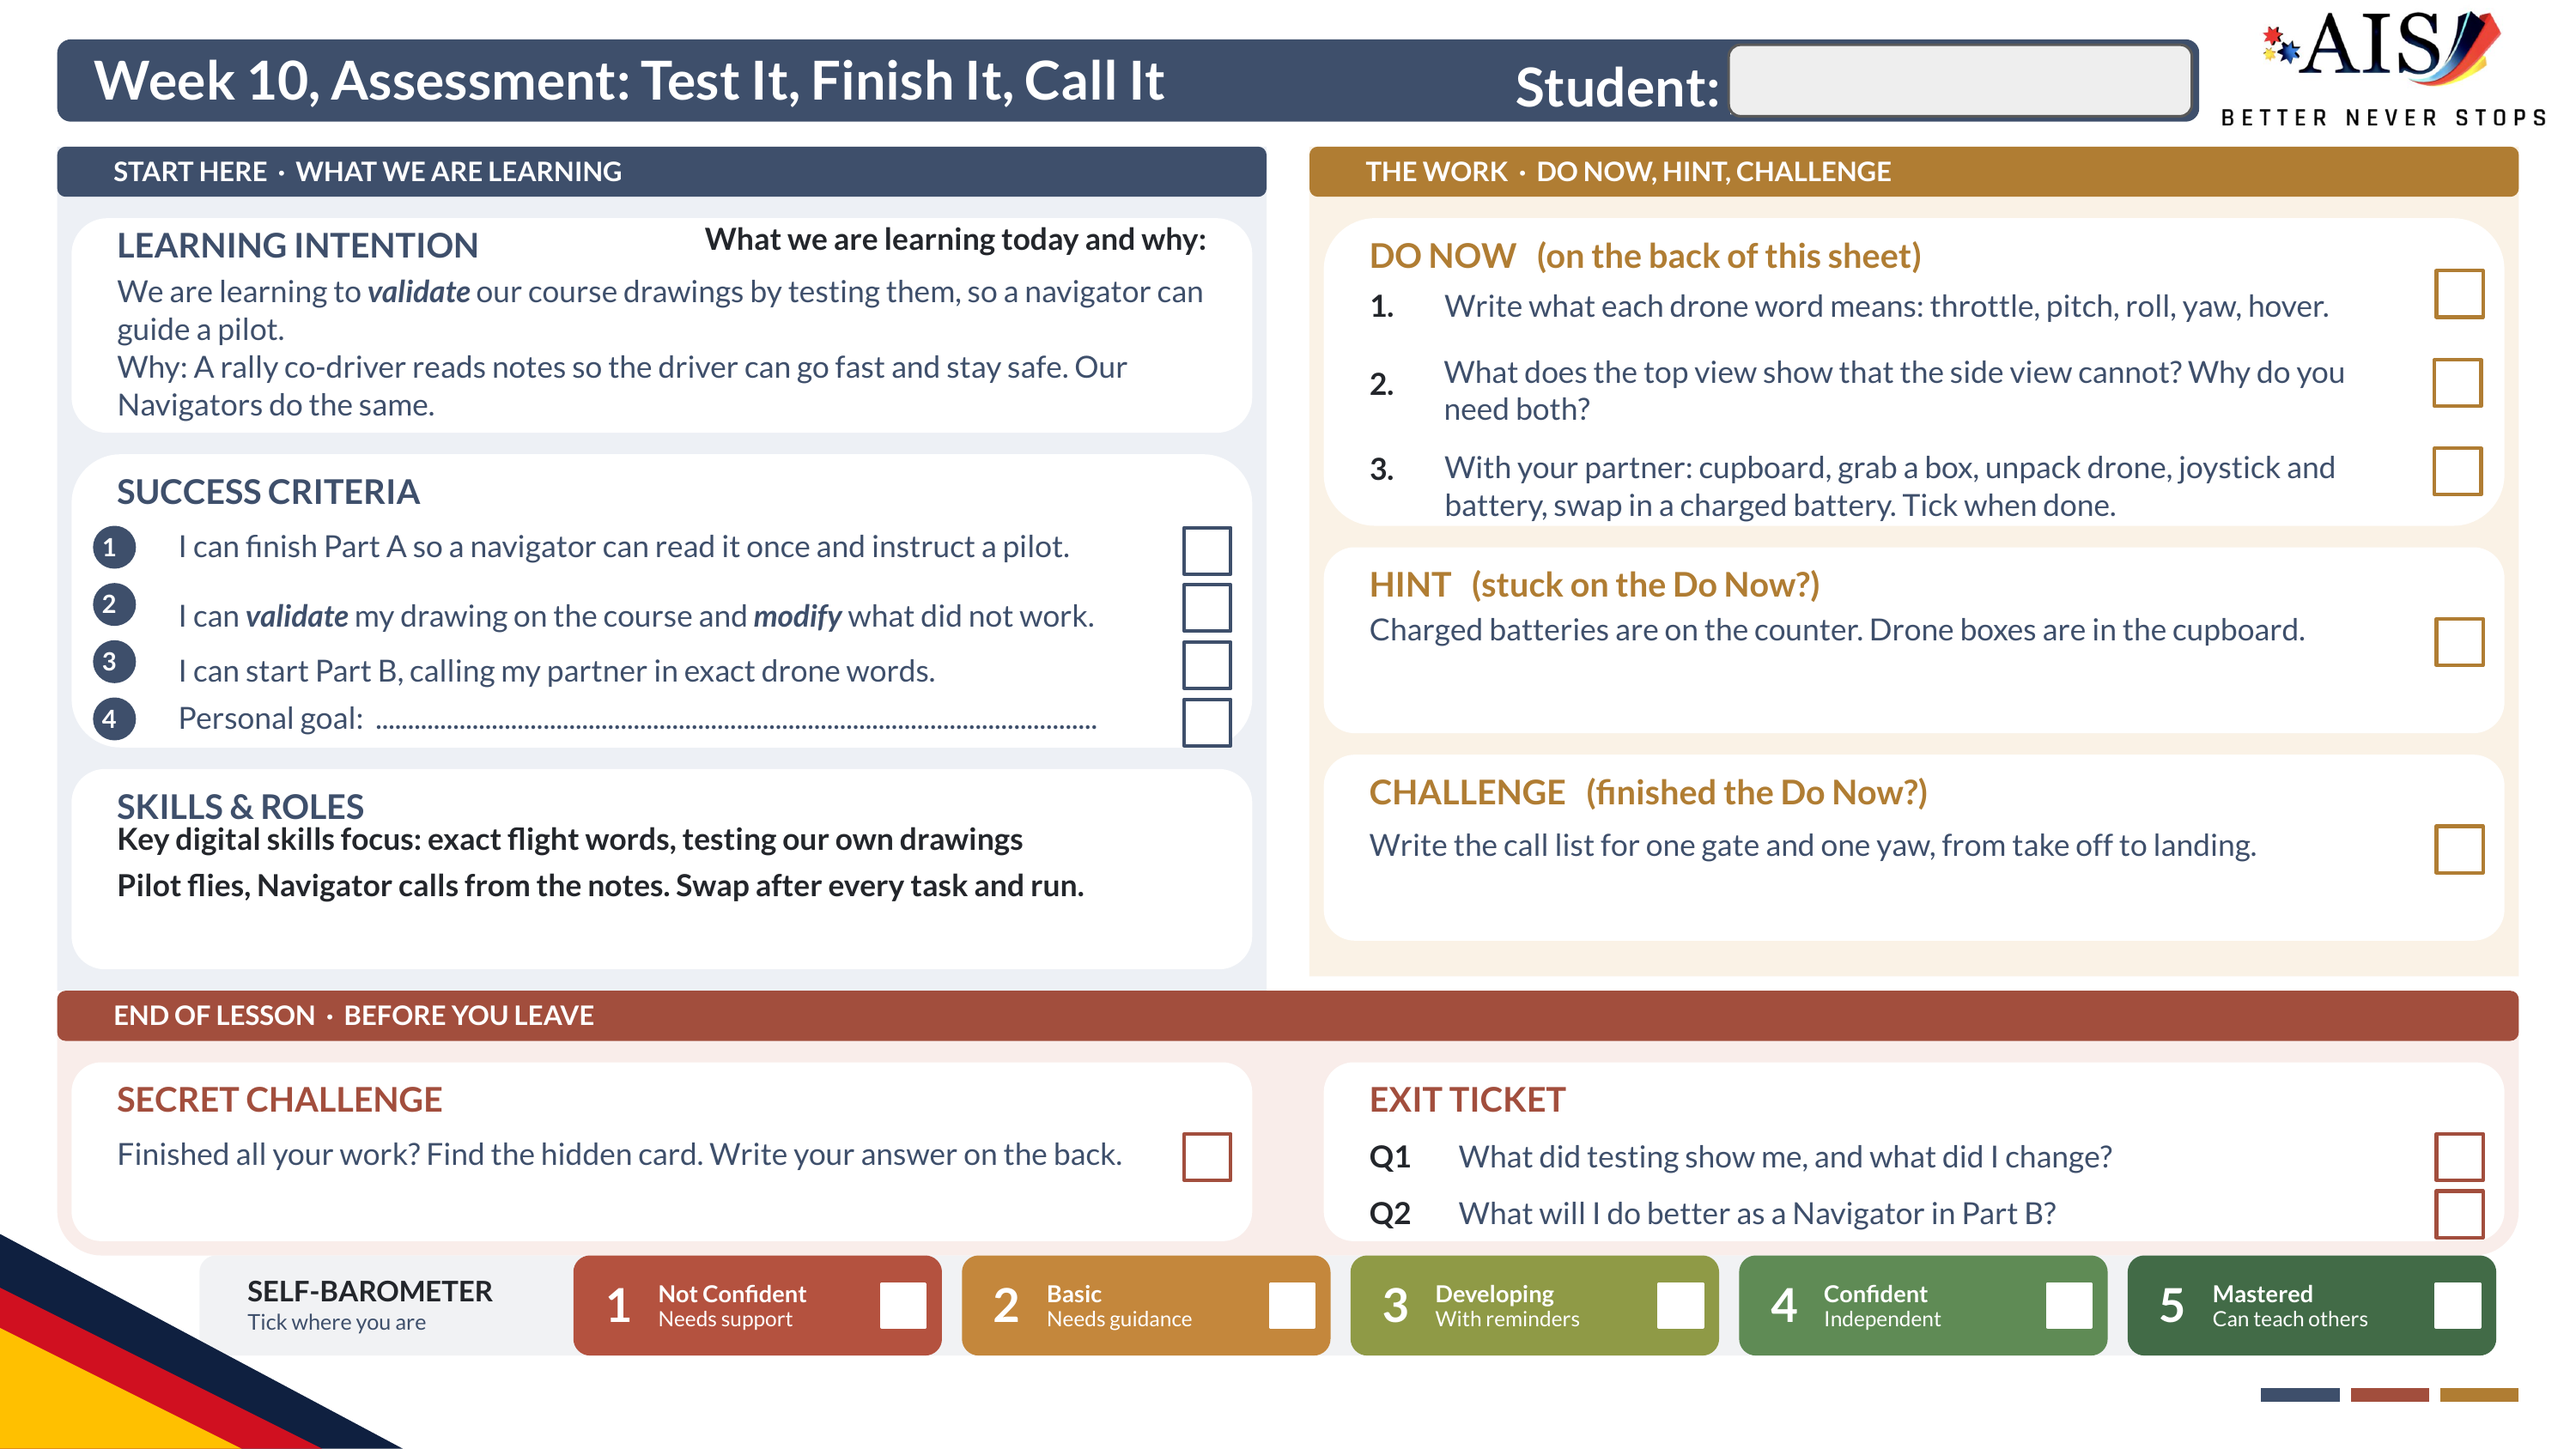
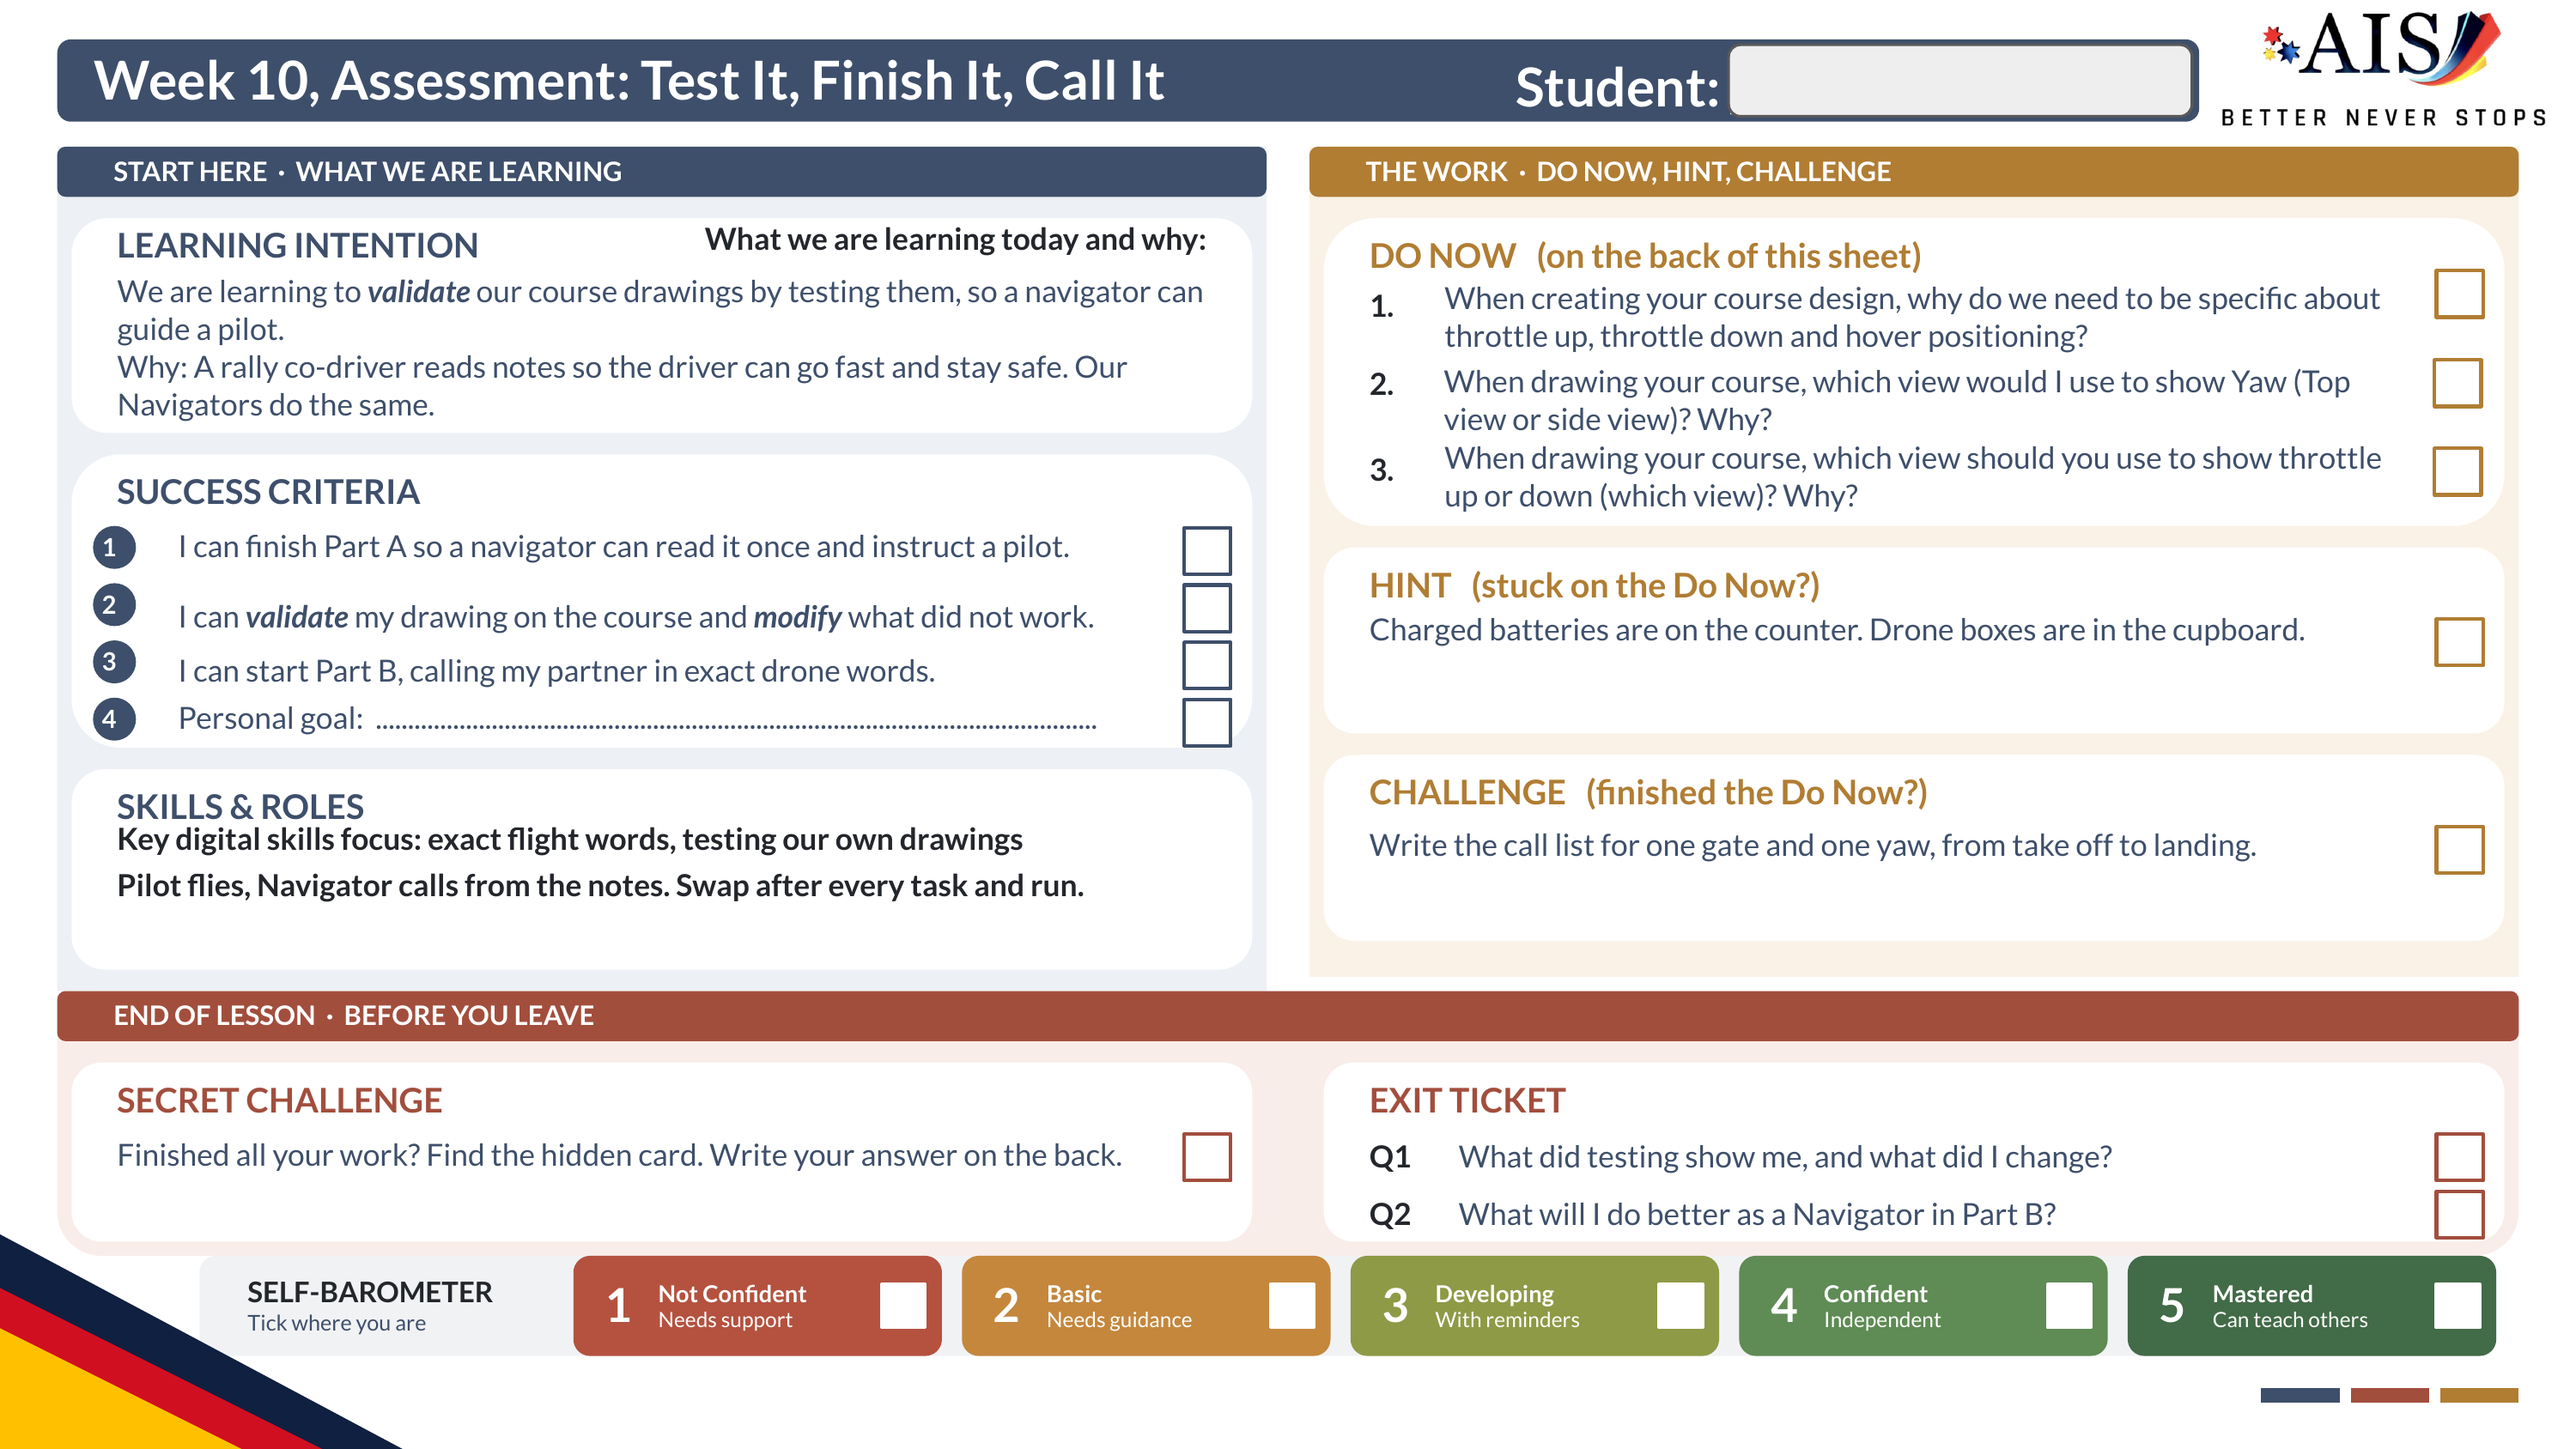
Do Now matches Igor's edited sheet; box set-up moved to calibrate (v20261104-104927)

diff --git a/g10-week10-lesson2.html b/g10-week10-lesson2.html
@@ -1548,7 +1548,7 @@ ul.plain li::before { color:var(--p-i-ink); }
   </div>
 </section>
 
-<section data-element="donow" class="slide g-well" data-timer="360" data-timer-group="donow" data-notes="&lt;strong&gt;Do Now, 6 minutes. Start the clock top left.&lt;/strong&gt; Only the Student Sheet is up. Students start straight away, answers on the back of the sheet, no devices. The ring walks on NEXT inside the same 6 minutes. &lt;strong&gt;Do Now 1:&lt;/strong&gt; “Write what each drone word means: throttle, pitch, roll, yaw, hover.” &lt;strong&gt;Do Now 2:&lt;/strong&gt; “What does the top view show that the side view cannot? Why do you need both?” &lt;strong&gt;Do Now 3:&lt;/strong&gt; “With your partner: cupboard, grab a box, unpack drone, joystick and battery, swap in a charged battery. Tick when done.” Say: Part 3 is with your partner, so your drone is ready for testing and nobody waits. The charged battery goes in now and the drone stays off; at step 2 of the calibrate, students just check it is in. Drone stays off, on the desk, until you say go. Then the ring moves to the Hint and the Challenge. &lt;strong&gt;Support:&lt;/strong&gt; the Hint, “Charged batteries are on the counter. Drone boxes are in the cupboard.” &lt;strong&gt;Stretch:&lt;/strong&gt; the Challenge, “Write the call list for one gate and one yaw, from take off to landing.” A good answer: take off procedure, throttle up to a hover, pitch forward through the gate, yaw right, pitch forward, landing procedure. Gadsby strand: retrieval and revision.">
+<section data-element="donow" class="slide g-well" data-timer="360" data-timer-group="donow" data-notes="&lt;strong&gt;Do Now, 6 minutes. Start the clock top left.&lt;/strong&gt; Only the Student Sheet is up. Students start straight away, answers on the back of the sheet, no devices. The ring walks on NEXT inside the same 6 minutes. &lt;strong&gt;Do Now 1:&lt;/strong&gt; “When creating your course design, why do we need to be specific about throttle up, throttle down and hover positioning?” &lt;strong&gt;Do Now 2:&lt;/strong&gt; “When drawing your course, which view would I use to show Yaw (Top view or side view)? Why?” &lt;strong&gt;Do Now 3:&lt;/strong&gt; “When drawing your course, which view should you use to show throttle up or down (which view)? Why?” All three are written, alone. The drone boxes come out at the calibrate slide, not now. Then the ring moves to the Hint and the Challenge. &lt;strong&gt;Support:&lt;/strong&gt; the Hint, “Charged batteries are on the counter. Drone boxes are in the cupboard.” &lt;strong&gt;Stretch:&lt;/strong&gt; the Challenge, “Write the call list for one gate and one yaw, from take off to landing.” A good answer: take off procedure, throttle up to a hover, pitch forward through the gate, yaw right, pitch forward, landing procedure. Gadsby strand: retrieval and revision.">
   <div class="slide-content" style="max-width:min(97vw,2500px)">
     <p class="eyebrow reveal">// do_now &middot; on your printed sheet</p>
     <h2 class="reveal" style="margin-bottom:calc(var(--element-gap) * 0.3)">Do Now</h2>
@@ -1561,18 +1561,18 @@ ul.plain li::before { color:var(--p-i-ink); }
         <span class="chip" data-ring-step="4">Challenge</span>
       </div>
     </div>
-    <p class="reveal" style="margin-top:calc(var(--element-gap) * 0.35); display:flex; flex-wrap:wrap; gap:0.6em; align-items:center"><span class="chip red">6 minutes</span> <span class="chip dark" data-ring-step="2">Drone stays off, on the desk, until Mr Igor says go.</span></p>
+    <p class="reveal" style="margin-top:calc(var(--element-gap) * 0.35); display:flex; flex-wrap:wrap; gap:0.6em; align-items:center"><span class="chip red">6 minutes</span> <span class="chip dark" data-ring-step="2">Alone, on the back of your sheet. No devices.</span></p>
 
   </div>
 </section>
 
-<section data-element="donow" class="slide g-well" data-timer="120" data-timer-group="dncheck" data-cfu="Which drone word spins the drone on the spot, and which one slides it sideways? || Draw a name with the Random Name Picker, hands stay down, three seconds of Wait Time, then reveal the answer. || Yaw spins it, roll slides it." data-notes="&lt;strong&gt;Do Now check, 2 minutes.&lt;/strong&gt; Reveal one at a time on NEXT and students fix their own answers on the back of the sheet. Do not add anything about calibration or drift: Part A&#x27;s Questions 1 to 3 ask that. &lt;span class=&#x27;tag cfu&#x27;&gt;CFU&lt;/span&gt; &lt;strong&gt;Answer: yaw spins it, roll slides it.&lt;/strong&gt; Wait Time three seconds.">
+<section data-element="donow" class="slide g-well" data-timer="120" data-timer-group="dncheck" data-cfu="Why can the top view not show throttle up or down? || Draw a name with the Random Name Picker, hands stay down, three seconds of Wait Time, then reveal the answer. || From above you cannot see height. Height only shows from the side." data-notes="&lt;strong&gt;Do Now check, 2 minutes.&lt;/strong&gt; Reveal one at a time on NEXT and students fix their own answers on the back of the sheet. Do not add anything about calibration or drift: Part A&#x27;s Questions 1 to 3 ask that. &lt;span class=&#x27;tag cfu&#x27;&gt;CFU&lt;/span&gt; &lt;strong&gt;Answer: from above you cannot see height. Height only shows from the side.&lt;/strong&gt; Wait Time three seconds.">
   <div class="slide-content" style="max-width:min(97vw,2500px)">
     <p class="eyebrow reveal">// check &middot; do_now</p>
-    <h2 class="reveal" style="margin-bottom:calc(var(--element-gap) * 0.4)">Drone words and two views</h2>
+    <h2 class="reveal" style="margin-bottom:calc(var(--element-gap) * 0.4)">Heights and two views</h2>
     <div class="grid" style="grid-template-columns:repeat(2, minmax(0,1fr)); gap:clamp(6px,0.9vw,14px)">
-      <div class="tblock j" data-fragment="1"><p class="lede" style="color:var(--p-j-ink)">Drone words</p><p style="margin-top:0.3em"><b>Throttle:</b> up or down. <b>Pitch:</b> tilt forward or back and fly that way. <b>Roll:</b> tilt left or right and fly that way. <b>Yaw:</b> spin on the spot. <b>Hover:</b> sit still in the air.</p></div>
-      <div class="tblock i" data-fragment="2"><p class="lede" style="color:var(--p-i-ink)">Two views</p><p style="margin-top:0.3em"><b>Top view:</b> the turns. <b>Side view:</b> up, down, forward and how high a gate is. You need both because each hides what the other shows.</p></div>
+      <div class="tblock j" data-fragment="1"><p class="lede" style="color:var(--p-j-ink)">1. Be specific</p><p style="margin-top:0.3em">The pilot needs to know exactly <b>how high</b> to fly and <b>when to hold still (hover)</b>, so the drone clears every gate and stays <b>1 metre below the ceiling</b>. A vague call means guessing.</p></div>
+      <div class="tblock i" data-fragment="2"><p class="lede" style="color:var(--p-i-ink)">2 and 3. Which view?</p><p style="margin-top:0.3em"><b>Yaw: the top view.</b> A yaw is a spin on the spot, and you only see a turn from above. <b>Throttle up or down: the side view.</b> It shows height, so you see how high a gate is.</p></div>
     </div>    <p class="reveal" style="margin-top:calc(var(--element-gap) * 0.35); display:flex; flex-wrap:wrap; gap:0.6em; align-items:center"><span class="chip red">2 minutes</span></p>
 
   </div>
@@ -1600,7 +1600,7 @@ ul.plain li::before { color:var(--p-i-ink); }
   </div>
 </section>
 
-<section data-element="lap2" class="slide g-well" data-timer="180" data-timer-group="calibrate" data-notes="&lt;strong&gt;Calibrate your drone, 3 minutes. Start the clock.&lt;/strong&gt; Calibrate together, a recap: they have done this every lesson since Week 6. Pilot calibrates, Navigator reads the steps out. These are the seven steps from the calibration guide, word for word. Motors stay off for the whole of this slide. A drone that stays on needs no second calibrate; a drone switched off, or given a fresh battery, calibrates again before it flies. Do not talk through drift: Part A&#x27;s Questions 1 to 3 ask about it. &lt;strong&gt;Step 5 picture:&lt;/strong&gt; both joysticks pushed down and to the right at the same time. &lt;strong&gt;If something goes wrong:&lt;/strong&gt; no beep? Re-pair using the guide. Sticks moving the wrong way round? Check the controller is not set to Japanese Hand and switch it back.">
+<section data-element="lap2" class="slide g-well" data-timer="180" data-timer-group="calibrate" data-notes="&lt;strong&gt;Calibrate your drone, 3 minutes. Start the clock.&lt;/strong&gt; First, pairs grab a drone box from the cupboard and a charged battery from the counter (this was in the Do Now before; it is here now). Calibrate together, a recap: they have done this every lesson since Week 6. Pilot calibrates, Navigator reads the steps out. These are the seven steps from the calibration guide, word for word. Motors stay off for the whole of this slide. A drone that stays on needs no second calibrate; a drone switched off, or given a fresh battery, calibrates again before it flies. Do not talk through drift: Part A&#x27;s Questions 1 to 3 ask about it. &lt;strong&gt;Step 5 picture:&lt;/strong&gt; both joysticks pushed down and to the right at the same time. &lt;strong&gt;If something goes wrong:&lt;/strong&gt; no beep? Re-pair using the guide. Sticks moving the wrong way round? Check the controller is not set to Japanese Hand and switch it back.">
   <div class="slide-content" style="max-width:min(97vw,2500px)">
     <p class="eyebrow reveal">// lesson_1 &middot; calibrate</p>
     <h2 class="reveal" style="margin-bottom:calc(var(--element-gap) * 0.3)">Calibrate your drone</h2>
@@ -1617,6 +1617,7 @@ ul.plain li::before { color:var(--p-i-ink); }
     </ul>
     <p class="reveal" style="margin-top:calc(var(--element-gap) * 0.4); display:flex; flex-wrap:wrap; gap:0.6em; align-items:center">
       <span class="chip red">3 minutes</span>
+      <span class="chip dark">First: with your partner, grab a box from the cupboard and a charged battery from the counter</span>
       <span class="chip dark">Motors stay off</span>
       <span class="chip dark">One calibrates, one reads</span>
       <a class="linkbtn gold" id="cal-link-2" href="https://docs.google.com/document/d/1runJFTrQz93lhuT8_kW0Ws9x5ORxHL-VAdaI2DcwtmI/edit" target="_blank" rel="noopener">Open calibration guide &#x2197;</a>
@@ -2303,9 +2304,9 @@ ul.plain li::before { color:var(--p-i-ink); }
     <span class="sh-zone row b3r4" style="--l:3.30%; --t:48.20%; --w:44.80%; --h:3.60%"></span>
     <span class="sh-zone b4" style="--l:2.78%;  --t:53.09%; --w:45.83%; --h:13.83%"></span>
     <span class="sh-zone b5" style="--l:51.39%; --t:15.06%; --w:45.83%; --h:21.24%"></span>
-    <span class="sh-zone row b5q1" style="--l:52.40%; --t:19.20%; --w:44.40%; --h:4.00%"></span>
-    <span class="sh-zone row b5q2" style="--l:52.40%; --t:24.80%; --w:44.40%; --h:5.90%"></span>
-    <span class="sh-zone row b5q3" style="--l:52.40%; --t:31.00%; --w:44.40%; --h:5.70%"></span>
+    <span class="sh-zone row b5q1" style="--l:52.40%; --t:19.00%; --w:44.40%; --h:5.80%"></span>
+    <span class="sh-zone row b5q2" style="--l:52.40%; --t:25.00%; --w:44.40%; --h:5.50%"></span>
+    <span class="sh-zone row b5q3" style="--l:52.40%; --t:30.60%; --w:44.40%; --h:5.60%"></span>
     <span class="sh-zone b6" style="--l:51.39%; --t:37.78%; --w:45.83%; --h:12.84%"></span>
     <span class="sh-zone b7" style="--l:51.39%; --t:52.10%; --w:45.83%; --h:12.84%"></span>
     <span class="sh-zone b8" style="--l:2.78%;  --t:73.33%; --w:45.83%; --h:12.35%"></span>
@@ -2486,7 +2487,7 @@ ul.plain li::before { color:var(--p-i-ink); }
    The slides the teacher has hidden persist the same way, under their own version-keyed
    name, so a hide survives a refresh mid-lesson but never outlives a push.
    Everything else (font scale, teacher toggle, iSAMS state, timers) stays session-only. */
-const DECK_VERSION = 'v20261104-095542';
+const DECK_VERSION = 'v20261104-104927';
 
 /* ===========================================
    RUNTIME_STRIP: everything the boot code builds or writes at run time.
